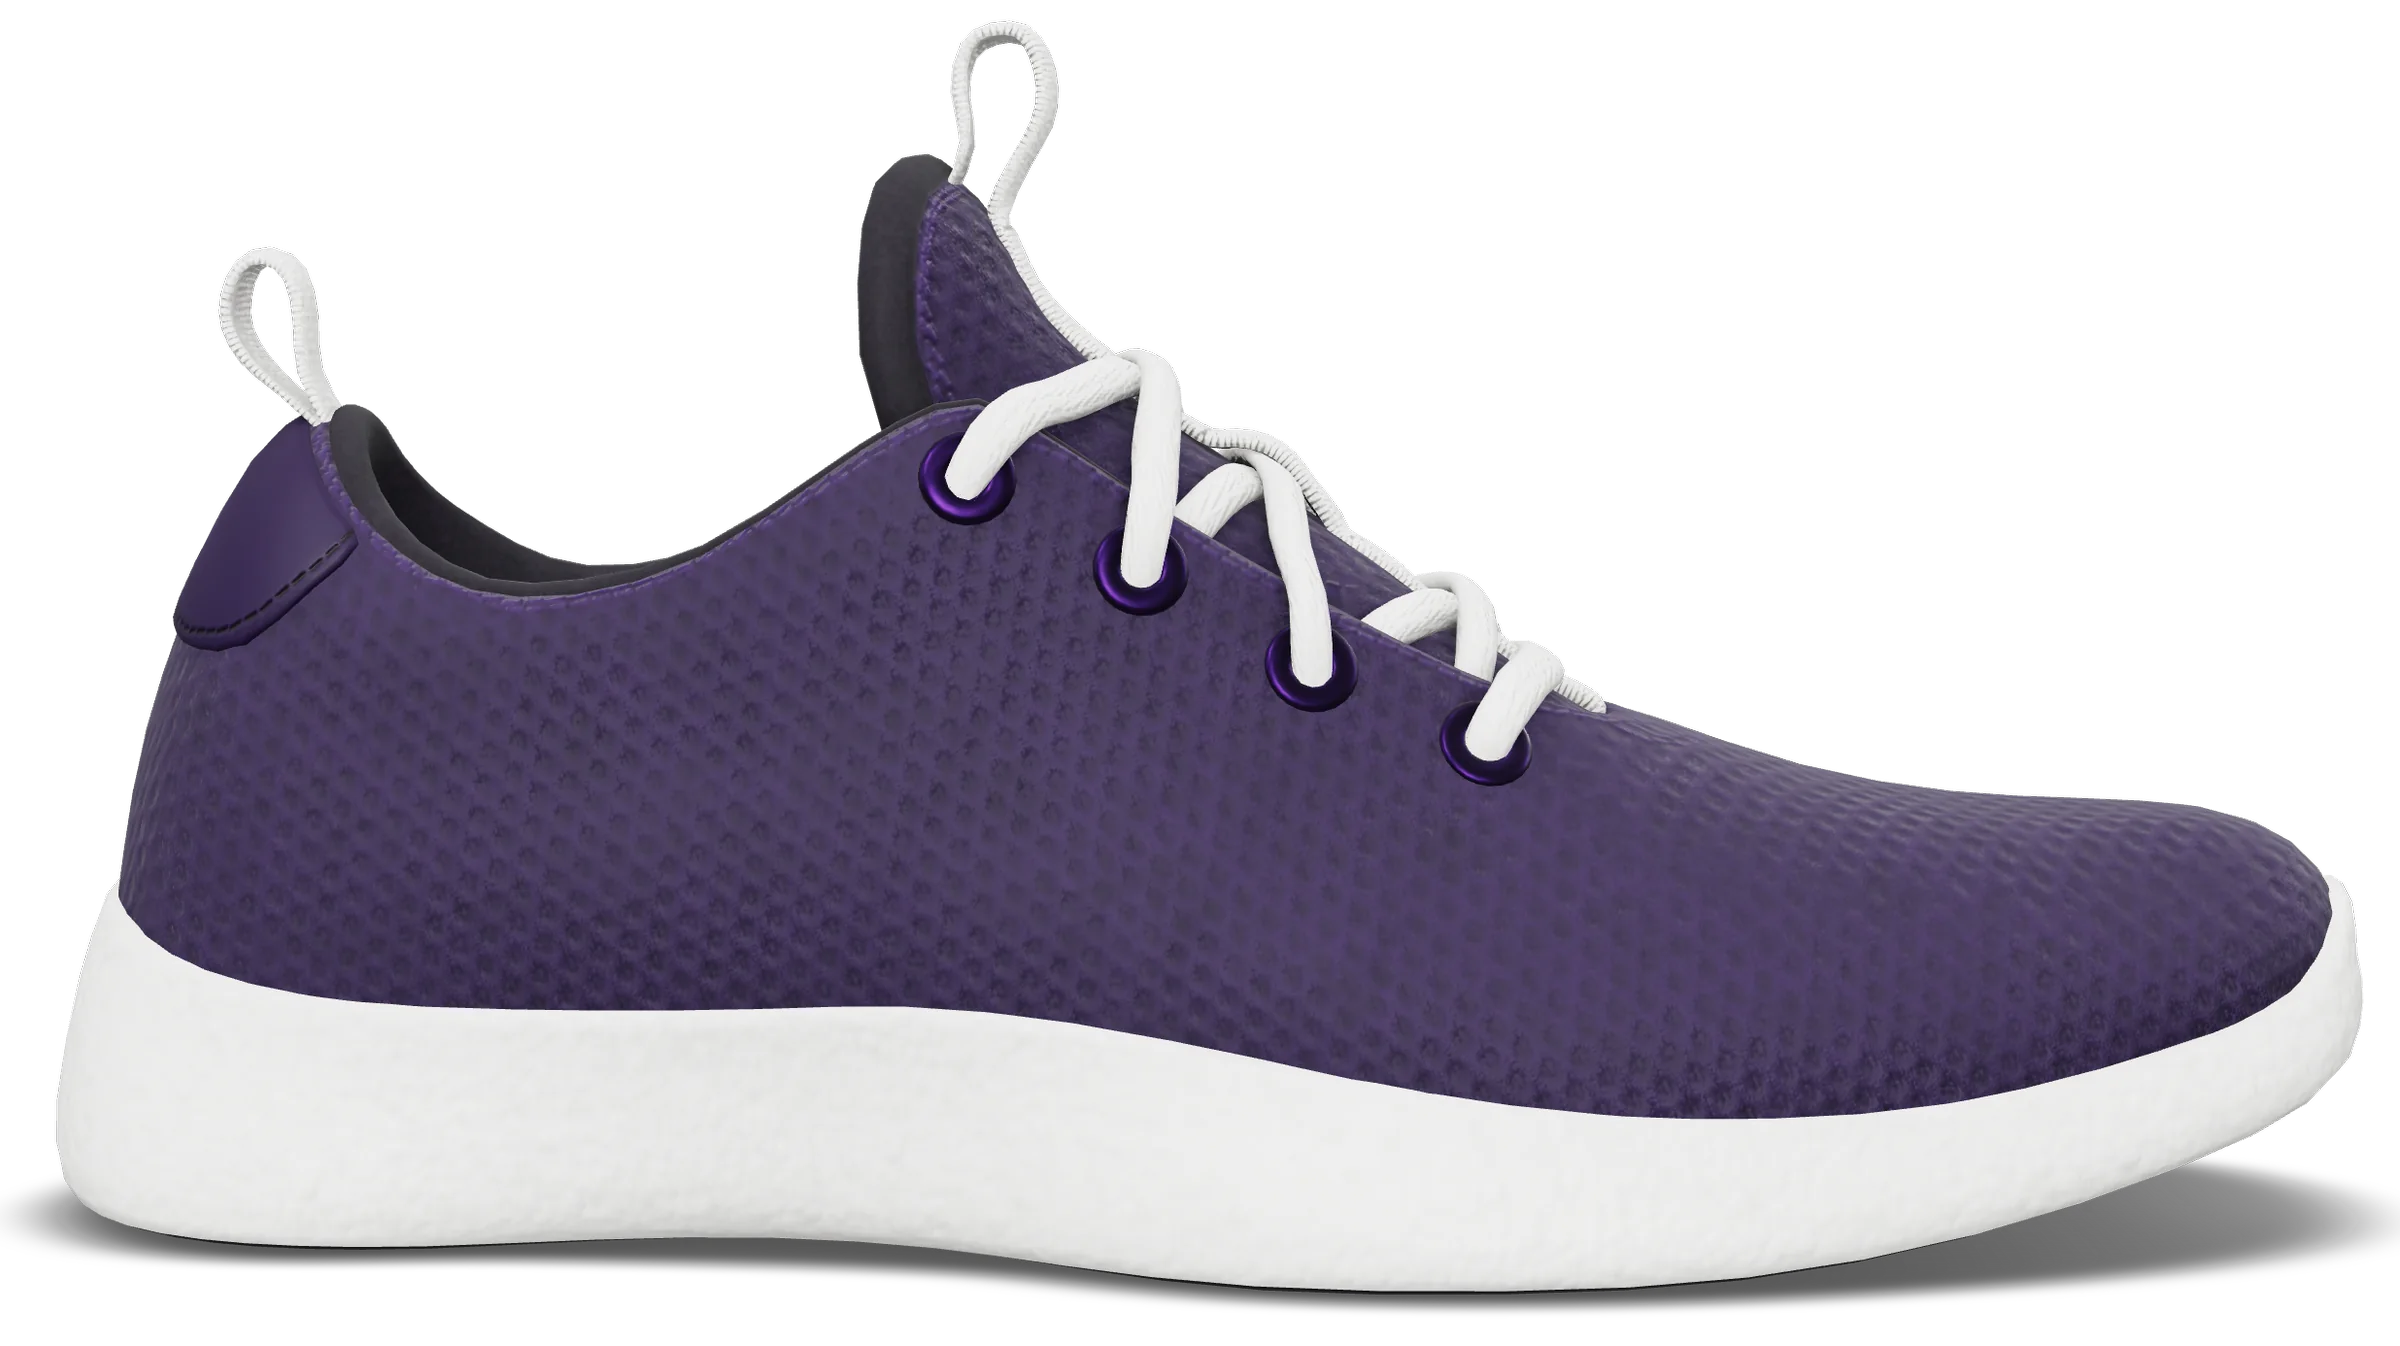
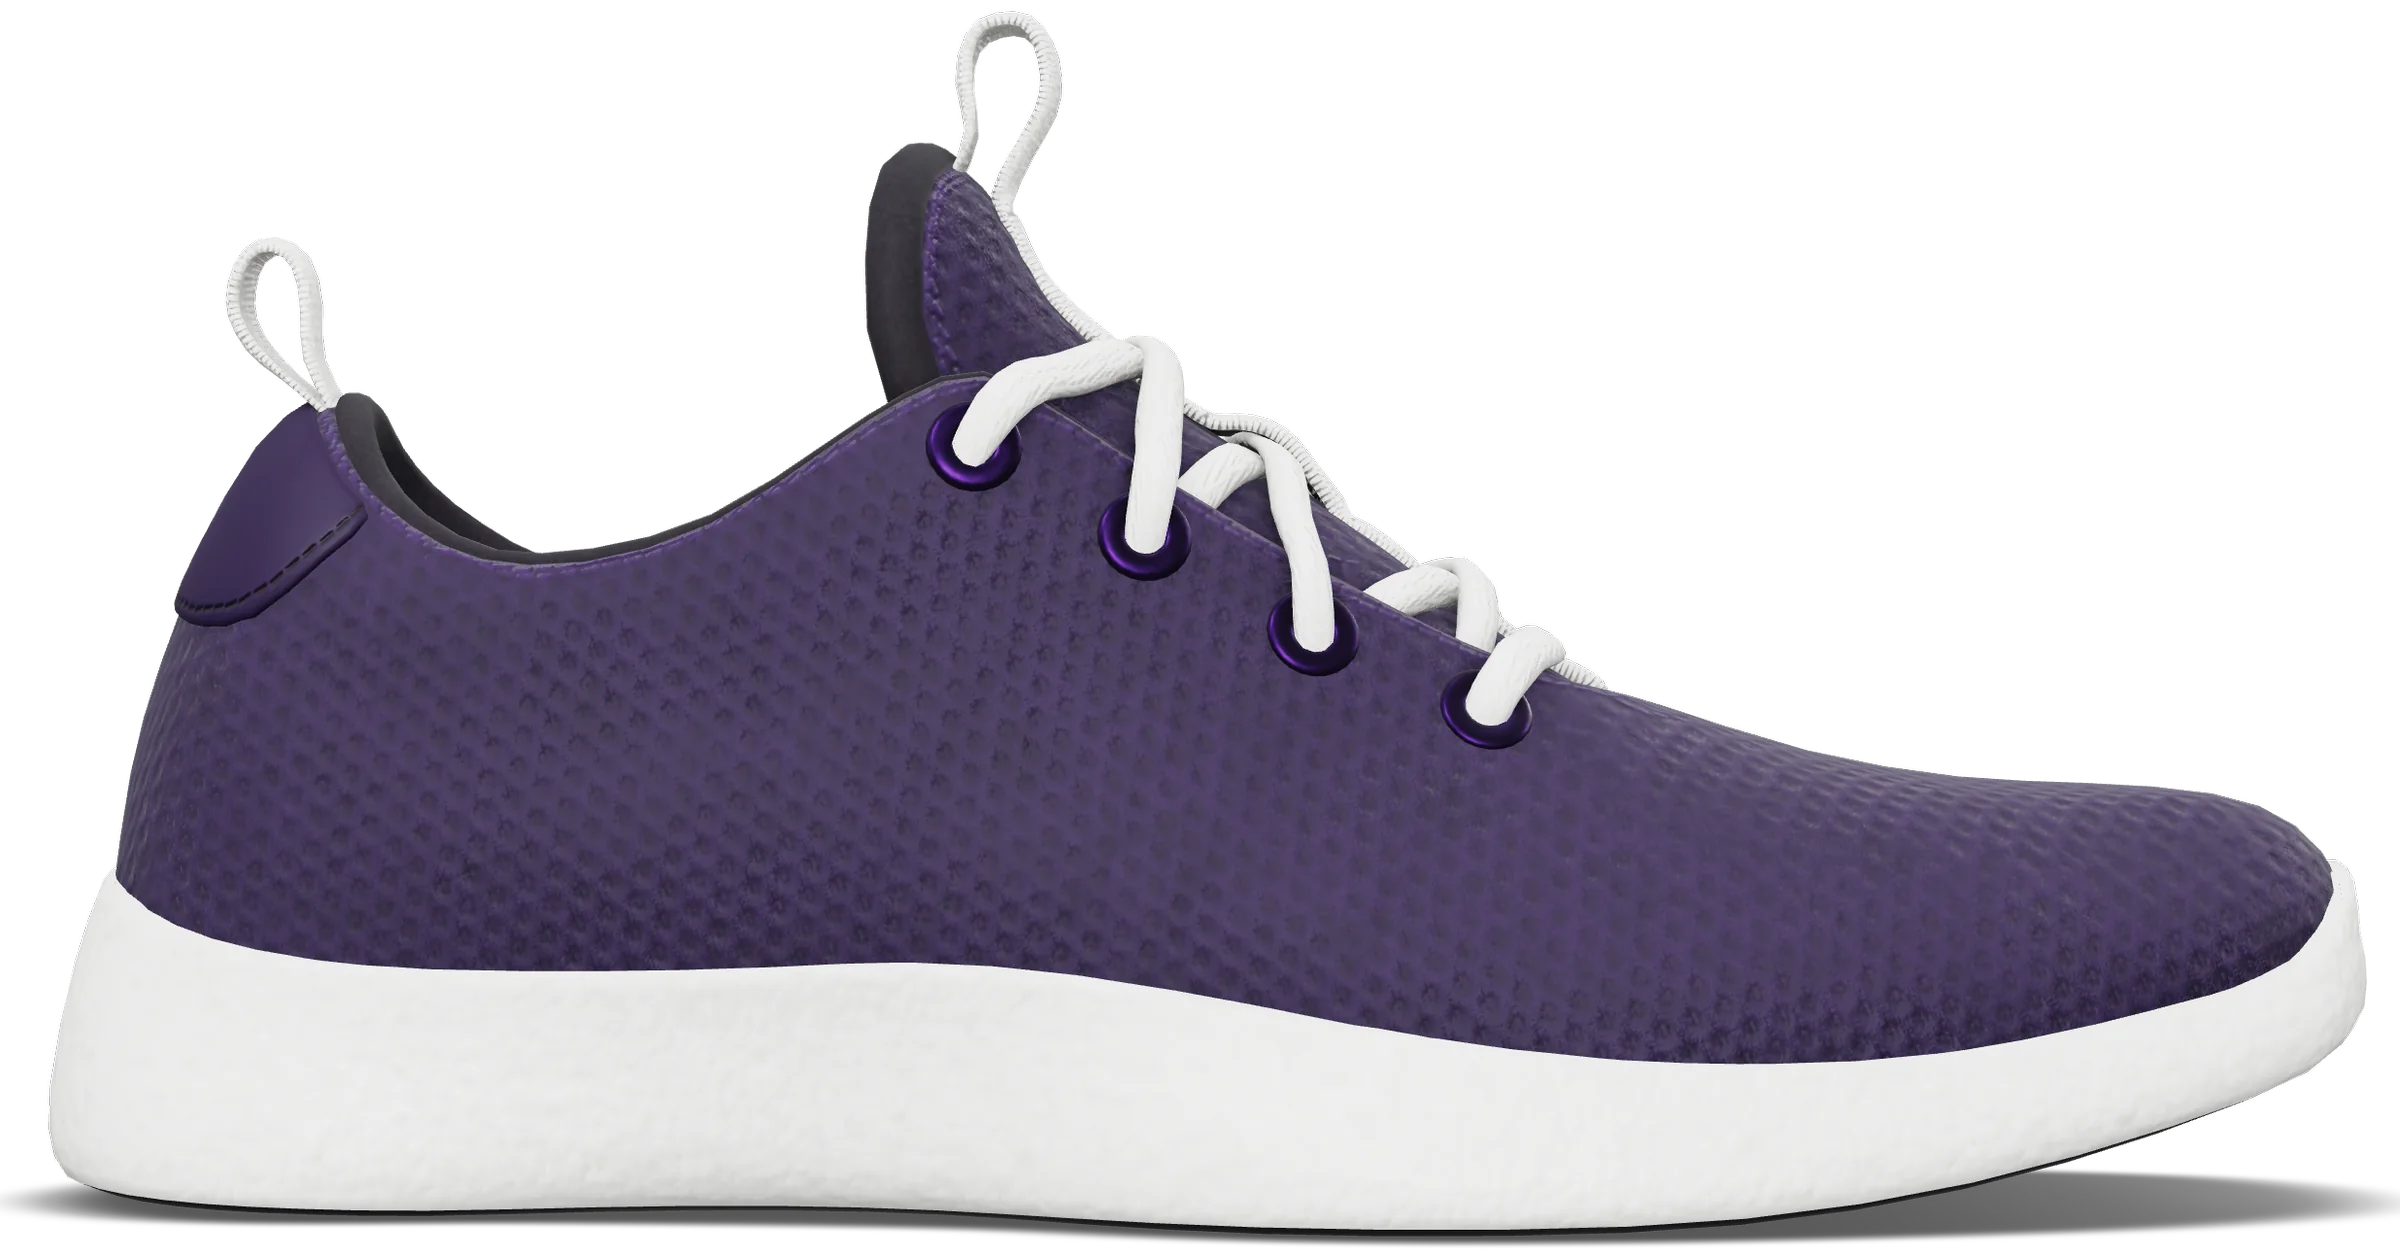
Hero in true side profile; hover release at 150 ms
- The hero still is a level side view (camera at the shoe's height, a
  narrower lens from further away) with less margin above and below
  (trimY), so the shoe fills the hero's width even on shorter screens.
- Hover release back to 150 ms: a slower release read as a colour change
  when a page scrolled under a resting pointer.

Claude-Session: https://claude.ai/code/session_015datNaUvSG9x7KKiEkPYnX

diff --git a/apps/web/scripts/stills/render.html b/apps/web/scripts/stills/render.html
@@ -147,9 +147,12 @@ window.renderStill = (spec) => {
         if (x < x0) x0 = x; if (x > x1) x1 = x;
         if (y < y0) y0 = y; if (y > y1) y1 = y;
       }
-  const m = Math.round(spec.trim * Math.max(x1 - x0, y1 - y0));
-  x0 = Math.max(0, x0 - m); y0 = Math.max(0, y0 - m);
-  x1 = Math.min(c.width - 1, x1 + m); y1 = Math.min(c.height - 1, y1 + m);
+  // trimY (optional) sets a smaller margin above and below: a wide picture
+  // keeps its proportions when the frame it is drawn in is short.
+  const side = Math.max(x1 - x0, y1 - y0);
+  const m = Math.round(spec.trim * side), mY = Math.round((spec.trimY ?? spec.trim) * side);
+  x0 = Math.max(0, x0 - m); y0 = Math.max(0, y0 - mY);
+  x1 = Math.min(c.width - 1, x1 + m); y1 = Math.min(c.height - 1, y1 + mY);
   const out = document.createElement("canvas");
   out.width = x1 - x0 + 1;
   out.height = y1 - y0 + 1;

diff --git a/apps/web/src/app/[lang]/page.tsx b/apps/web/src/app/[lang]/page.tsx
@@ -72,7 +72,7 @@ export default async function Home({ params }: PageProps<"/[lang]">) {
                   srcSet="/images/shoe/hero-sm.webp 1200w, /images/shoe/hero.webp 2400w"
                   sizes="(min-width: 1440px) 1280px, 100vw"
                   width={2400}
-                  height={1346}
+                  height={1256}
                   alt={t.hero.alt}
                   fetchPriority="high"
                 />

diff --git a/apps/web/public/assets/jianova.css b/apps/web/public/assets/jianova.css
@@ -165,7 +165,7 @@ html[lang="ar"] .hero h1 { line-height: 1.2; font-size: calc(var(--ly-h1) * .9);
   --ease: cubic-bezier(.22, 1, .36, 1);
   --dur: 260ms;
   --m-in: 150ms;
-  --m-out: 240ms;
+  --m-out: 150ms;
   --m-press: 140ms;
   --m-panel: 320ms;
   --m-close: 220ms;
